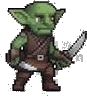
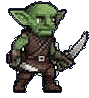
夥伴角色強化（8/12）：獸人；修圖工具保護淺灰色武器
- 修圖：獸人、哥布林、聖騎士的劍、斧、鎧甲是淺灰色 → 只剝 1 層灰邊、不挖灰色破洞，飄在旁邊的灰色方塊另外清
  （pixel_polish 新增 peel、blobs）
- 特效：戰意的橘紅光暈、環繞發光的符文石；披風擺動
- 專屬背景：黃昏的戰營，木樁圍牆、帳篷、戰旗飄動、營火冒煙
- 部位動作：頭、上半身；武器微微晃、點擊時揮下去；雙劍往外揮

Claude-Session: https://claude.ai/code/session_016wQJDqNmeMZi3CzSXZ7hYD

diff --git a/web/js/core.js b/web/js/core.js
@@ -183,6 +183,8 @@ const PET_FX = {
   golem: { from: 2, aura: "120,225,140", orb: "rock", colors: ["#2B2A26", "#7C7466", "#7FE0A0"], spark: "#A7F0B8" },
   // 惡魔：地獄火的光暈，環繞火焰
   demon: { from: 2, aura: "255,80,40", orb: "flame", colors: ["#5A0A08", "#FF5A1F", "#FFE07A"], spark: "#FF9A5A", sway: 1 },
+  // 獸人：戰意的橘紅光暈，環繞發光的符文石
+  orc: { from: 2, aura: "240,110,50", orb: "rune", colors: ["#2A1A10", "#6B4A2E", "#FF8A2A"], spark: "#FFB070", sway: 3 },
   beast_tamer: { from: 2, aura: "140,215,100", orb: "leaf", colors: ["#28501C", "#68AE36", "#D2F59A"], spark: "#CFF59A", sway: 2 },
 };
 const ORB_GRID = {
@@ -190,6 +192,7 @@ const ORB_GRID = {
   bat: ["1.......1", "11.....11", "111.1.111", "111222111", ".1232321.", "..12221..", "...1.1..."],
   skull: [".11111.", "1222221", "1322231", "1222221", ".12221.", ".12121.", "..111.."],
   rock: ["..111..", ".12221.", "1222231", "1223321", ".12221.", "..111.."],
+  rune: [".11111.", "1222221", "1232321", "1223221", "1232321", "1222221", ".11111."],
   wisp: ["..111..", ".12221.", "1233321", "1233321", ".12321.", "..121..", "...1..."],
   leaf: ["....111", "...1221", "..12321", ".123221", "1232211", "122211.", "1111...", "1......"],
 };
@@ -329,6 +332,27 @@ const PET_SCENE = {
     const embers = Array.from({ length: 8 }, (_, i) => `<i class="firefly ember" style="--i:${i}"></i>`).join("");
     return `<svg class="scene-art" viewBox="0 0 160 80" preserveAspectRatio="xMidYMax slice" shape-rendering="crispEdges">${s}</svg>${embers}`;
   },
+  // 獸人：黃昏的戰營，木樁圍牆、帳篷、戰旗、營火，煙往上飄、旗子飄動
+  orc: () => {
+    let s = bands(0, ["#3A2030", "#4E2530", "#652B2E", "#7C332B", "#933D27", "#A84A24", "#BA5A23", "#C86C26", "#D27E2C", "#D98F35"], 5);
+    s += pxCircle(40, 30, 9, "#F2B04A") + pxCircle(40, 30, 7, "#FFD27A");
+    // 遠山
+    for (let x = 0; x < 160; x += 2) { const h = 6 + Math.round(4 * Math.sin(x / 13 + 2) + 2 * Math.sin(x / 4.4)); s += PX(x, 46 - h, 2, h, "#5A2A24"); }
+    // 地面：泥土
+    s += PX(0, 46, 160, 34, "#6A4A30") + PX(0, 46, 160, 2, "#80603E") + PX(0, 62, 160, 18, "#583C26");
+    // 木樁圍牆
+    for (let x = 0; x < 160; x += 5) { const h = 12 + (x * 7) % 5; s += PX(x, 46 - h, 4, h, "#4A2E1C") + PX(x + 1, 46 - h, 1, h, "#6A4428") + PX(x + 1, 46 - h - 2, 2, 2, "#4A2E1C"); }
+    s += PX(0, 38, 160, 2, "#3A2416");
+    // 帳篷
+    const tent = (x, b, w, c, c2) => { let t = ""; for (let i = 0; i < w / 2; i++) t += PX(x + i, b - i, w - i * 2, 1, i % 3 ? c : c2); return t + PX(x + w / 2 - 2, b - 5, 4, 5, "#2A1A10"); };
+    s += tent(8, 58, 24, "#8A5A34", "#7A4C2A") + tent(118, 56, 30, "#7A3A2A", "#6A3022");
+    // 戰旗
+    s += PX(58, 22, 1, 30, "#2A1A10") + PX(100, 26, 1, 26, "#2A1A10");
+    // 營火
+    s += PX(76, 60, 10, 2, "#4A2E1C") + PX(78, 56, 6, 4, "#FF7A2A") + PX(79, 54, 4, 2, "#FFC25A") + PX(80, 52, 2, 2, "#FFE08A");
+    const smoke = Array.from({ length: 4 }, (_, i) => `<i class="smoke" style="--i:${i}"></i>`).join("");
+    return `<svg class="scene-art" viewBox="0 0 160 80" preserveAspectRatio="xMidYMax slice" shape-rendering="crispEdges">${s}</svg>${smoke}<i class="banner" style="left:36.9%;top:28%"></i><i class="banner b2" style="left:63.1%;top:33%"></i>`;
+  },
   // 精靈使：月夜的精靈泉，極光、古樹、發光的蘑菇，螢火慢慢往上飄
   spirit: () => {
     let s = bands(0, ["#0B1430", "#0E1B3B", "#112346", "#142C50", "#17365A", "#1A4062", "#1D4A69", "#20536E", "#235B72", "#266274"], 5);
@@ -408,6 +432,12 @@ const PET_FRONT = {
     for (let x = 0; x < 160; x += 4) { const h = 2 + ((x * 7) % 5); s += PX(x, 10 - h, 3, h, "#140706") + PX(x, 10 - h, 3, 1, "#FF6A1F"); }
     return `<svg class="front-art" viewBox="0 0 160 10" preserveAspectRatio="none" shape-rendering="crispEdges">${s}</svg><i class="firefly ember front" style="--i:2"></i>`;
   },
+  orc: () => {
+    let s = "";
+    for (let x = 0; x < 160; x += 3) { const h = 1 + ((x * 5) % 4); s += PX(x, 10 - h, 3, h, x % 2 ? "#4E3420" : "#5E4028"); }
+    s += PX(10, 3, 2, 7, "#3A2416") + PX(9, 2, 4, 1, "#3A2416") + PX(148, 4, 2, 6, "#3A2416") + PX(147, 3, 4, 1, "#3A2416");
+    return `<svg class="front-art" viewBox="0 0 160 10" preserveAspectRatio="none" shape-rendering="crispEdges">${s}</svg>`;
+  },
   necromancer: () => `<i class="mist green front"></i><i class="mist green front m2"></i>`,
   spirit: () => {
     let s = "";
@@ -432,7 +462,7 @@ const petFront = (id) => (PET_FRONT[id] ? `<span class="scene-front" aria-hidden
 
 // 夥伴圖：有拆部位的（rigs.json）用分層組回角色，點擊時頭、翅膀、尾巴、下襬各自動；沒有的用整張圖
 // 圖層順序：翅膀、尾巴、魔力圈在身體後面；上半身、頭在前面。腳留在身體層，不另外動
-const RIG_Z = { wingL: 0, wingR: 0, tail: 0, tailL: 0, tailR: 0, ringL: 0, ringR: 0, torso: 2, head: 3, beast: 2, mane: 2, crystal: 3, wisp: 3, fairy: 3, ghost: 3, flame: 3, minion: 2, armL: 2, armR: 2, cape: 0 };
+const RIG_Z = { wingL: 0, wingR: 0, tail: 0, tailL: 0, tailR: 0, ringL: 0, ringR: 0, torso: 2, head: 3, beast: 2, mane: 2, crystal: 3, wisp: 3, fairy: 3, ghost: 3, flame: 3, minion: 2, armL: 2, armR: 2, cape: 0, weapon: 3 };
 function petSprite(id, stage, boxH) {
   const rig = S.rigs?.[id]?.[stage + 1], sp = species(id);
   if (!rig || !sp) return charImg(id, stage, boxH);

diff --git a/web/style.css b/web/style.css
@@ -867,6 +867,10 @@ ol.steps { margin: 0; padding-left: 1.4em; font-size: .9375rem; line-height: 1.7
   background: repeating-linear-gradient(90deg, rgba(120, 230, 160, 0) 0 18px, rgba(120, 230, 160, .3) 18px 60px, rgba(120, 230, 160, 0) 60px 90px); }
 .scene .firefly.spore { width: 2px; height: 2px; background: #EAF7C8; box-shadow: 0 0 3px rgba(220, 255, 190, .8); }
 .scene .firefly.ember, .scene-front .firefly.ember { width: 3px; height: 3px; background: #FFB04A; box-shadow: 0 0 5px 1px rgba(255, 110, 40, .9); }
+.scene .smoke { position: absolute; left: calc(52% + var(--i) * 1%); bottom: 26%; width: 6px; height: 6px; background: rgba(90, 70, 60, .55); opacity: 0; }
+.scene .banner { position: absolute; width: 14px; height: 9px; background: #8E1E1A; box-shadow: inset 0 -2px 0 #5E1210, inset 3px 0 0 #2A1A10;
+  clip-path: polygon(0 0, 100% 0, 80% 50%, 100% 100%, 0 100%); transform-origin: left center; }
+.scene .banner.b2 { background: #2A1A10; box-shadow: inset 0 -2px 0 #8E1E1A; }
 .scene .star { position: absolute; width: 3px; height: 3px; background: #FFF4D6; box-shadow: 0 0 4px #FFF4D6; }
 .scene .mist { position: absolute; left: -40%; bottom: 14%; width: 180%; height: 22px; opacity: .55;
   background: repeating-linear-gradient(90deg, rgba(190, 130, 230, .0) 0 18px, rgba(190, 130, 230, .35) 18px 60px, rgba(190, 130, 230, 0) 60px 90px); }
@@ -883,6 +887,10 @@ ol.steps { margin: 0; padding-left: 1.4em; font-size: .9375rem; line-height: 1.7
   .scene .firefly, .scene-front .firefly { animation: firefly-rise calc(5s + var(--i) * .8s) linear calc(var(--i) * -1.1s) infinite; }
   @keyframes firefly-rise { 0% { opacity: 0; transform: translate(0, 0); } 15% { opacity: 1; } 50% { transform: translate(8px, -60px); }
     85% { opacity: .9; } 100% { opacity: 0; transform: translate(-6px, -130px); } }
+  .scene .smoke { animation: smoke-rise calc(4s + var(--i) * .7s) steps(10) calc(var(--i) * -1.2s) infinite; }
+  @keyframes smoke-rise { 0% { opacity: 0; transform: translate(0, 0) scale(.6); } 15% { opacity: 1; } 100% { opacity: 0; transform: translate(-14px, -90px) scale(2.2); } }
+  .scene .banner { animation: banner-wave 1.6s steps(4) infinite; }
+  @keyframes banner-wave { 50% { transform: scaleX(.85) skewY(6deg); } }
   .scene .bird { animation: bird-fly calc(11s + var(--i) * 4s) linear calc(var(--i) * -6s) infinite, bird-flap .5s steps(2) infinite; }
   @keyframes bird-fly { 0% { left: -10%; } 100% { left: 110%; transform: translateY(-14px); } }
   @keyframes bird-flap { 50% { background-position: 0 1px, 4px 1px, 2px 0; } }
@@ -910,6 +918,9 @@ ol.steps { margin: 0; padding-left: 1.4em; font-size: .9375rem; line-height: 1.7
 .stage[data-scene="demon"] .pet img, .stage[data-scene="demon"] .pet .wavy {
   filter: drop-shadow(2px 0 0 rgba(255, 120, 50, .6)) drop-shadow(0 2px 0 rgba(255, 90, 30, .5)) drop-shadow(0 0 10px rgba(255, 80, 30, .35)); }
 .stage[data-scene="demon"] .pet-shadow { background: rgba(10, 0, 0, .6); box-shadow: 0 0 14px 4px rgba(255, 90, 30, .2); }
+.stage[data-scene="orc"] .pet img, .stage[data-scene="orc"] .pet .wavy {
+  filter: drop-shadow(-2px 0 0 rgba(255, 200, 120, .55)) drop-shadow(0 0 9px rgba(255, 130, 50, .3)); }
+.stage[data-scene="orc"] .pet-shadow { background: rgba(40, 20, 8, .6); }
 .stage[data-scene="spirit"] .pet img, .stage[data-scene="spirit"] .pet .wavy {
   filter: brightness(.95) drop-shadow(-2px 0 0 rgba(220, 255, 245, .55)) drop-shadow(0 0 10px rgba(110, 230, 205, .35)); }
 .stage[data-scene="spirit"] .pet-shadow { background: rgba(5, 20, 25, .55); box-shadow: 0 0 14px 4px rgba(110, 230, 205, .2); }
@@ -943,6 +954,10 @@ ol.steps { margin: 0; padding-left: 1.4em; font-size: .9375rem; line-height: 1.7
   @keyframes idle-swayR { 50% { rotate: -3deg; } }
   @keyframes punchL { 30% { rotate: 14deg; } 100% { rotate: 0deg; } }
   @keyframes punchR { 30% { rotate: -14deg; } 100% { rotate: 0deg; } }
+  .rig .rp-swing { animation: idle-swing 4s ease-in-out infinite; }
+  .pet.react .rig .rp-swing { animation: smash .9s cubic-bezier(.3, 1.4, .5, 1) 1; }
+  @keyframes idle-swing { 50% { rotate: -3deg; } }
+  @keyframes smash { 0% { rotate: 0deg; } 30% { rotate: -28deg; } 55% { rotate: 8deg; } 100% { rotate: 0deg; } }
   .rig .rp-nod { animation: idle-nod 4s ease-in-out infinite; }
   .rig .rp-bob { animation: idle-bob 3s steps(6, jump-none) infinite alternate; }
   .rig .rp-flicker { animation: idle-flicker .9s steps(2) infinite; }

diff --git a/tools/pixel_polish.py b/tools/pixel_polish.py
@@ -142,6 +142,27 @@ def colorize(img, hue, sat=90, max_sat=70, darken=1.0):
     return Image.fromarray(hsv.astype(np.uint8), "HSV").convert("RGB")
 
 
+def drop_grey_blobs(a, mask, grey_ratio=0.7, fill=0.6):
+    """飄在角色旁邊的灰色方塊（棋盤格碎片）：不是最大塊、幾乎都是灰色、形狀方方正正的，就挖掉。"""
+    rgb = a[..., :3].astype(int)
+    grey = (rgb.max(-1) - rgb.min(-1)) < 24
+    lab, n = ndimage.label(mask, structure=np.ones((3, 3)))
+    if n < 2:
+        return mask
+    sizes = ndimage.sum(mask, lab, range(1, n + 1))
+    big = int(np.argmax(sizes)) + 1
+    for i, box in enumerate(ndimage.find_objects(lab), 1):
+        if i == big or box is None:
+            continue
+        comp = lab[box] == i
+        area = comp.sum()
+        if area > sizes[big - 1] * 0.12:
+            continue
+        if grey[box][comp].mean() >= grey_ratio and area / comp.size >= fill:
+            mask[box] &= ~comp
+    return mask
+
+
 def shift_hue(img, lo, hi, by, darken=1.0, min_sat=40):
     """把某段色相（0–360 度）整段轉到別的顏色，例如粉紅轉成紫紅；金髮、膚色不在範圍內就不動。"""
     hsv = np.array(img.convert("HSV")).astype(int)
@@ -153,7 +174,7 @@ def shift_hue(img, lo, hi, by, darken=1.0, min_sat=40):
     return Image.fromarray(hsv.astype(np.uint8), "HSV").convert("RGB")
 
 
-def polish(path, colors=96, sat=1.12, contrast=1.06, holes=False, hue=None, debris=False, aura=None, min_bit=8, tint=None, smooth=None, outside=None, recolor=None):
+def polish(path, colors=96, sat=1.12, contrast=1.06, holes=False, hue=None, debris=False, aura=None, min_bit=8, tint=None, smooth=None, outside=None, recolor=None, peel=8, blobs=False):
     im = Image.open(path).convert("RGBA")
     a = np.array(im)
     mask = a[..., 3] > 0
@@ -169,11 +190,14 @@ def polish(path, colors=96, sat=1.12, contrast=1.06, holes=False, hue=None, debr
         mask = drop_tint(a, mask, **tint)
     if outside:
         mask = drop_outside(a, mask, **outside)
-    mask = peel_grey(a, mask)
+    if peel:                                       # 劍刃、鎧甲是淺灰色的角色要少剝或不剝
+        mask = peel_grey(a, mask, passes=peel)
     if holes:
         mask = drop_grey_holes(a, mask)
     if debris:
         mask = drop_debris(a, mask)
+    if blobs:
+        mask = drop_grey_blobs(a, mask)
     lab, n = ndimage.label(mask)
     if n:
         sizes = ndimage.sum(mask, lab, range(1, n + 1))
@@ -237,6 +261,10 @@ TUNE = {
     # 惡魔：第 3 階段整片紅色棋盤格蓋在身上、修不回來 → 換新外觀：用第 4 階段的騎士，黑甲染成暗紅甲（地獄領主）
     "demon": {"sat": 1.12, "contrast": 1.1, "debris": True, "min_bit": 24, "holes": True, "stages": {
         3: {"source": 4, "contrast": 1.12, "recolor": {"hue": 354, "sat": 165, "max_sat": 70, "darken": 0.82}}}},
+    # 獸人、哥布林、聖騎士：劍、斧、鎧甲是淺灰色，不能挖灰色破洞也不能多剝 → 只剝 1 層，飄在旁邊的灰色方塊另外清
+    "orc": {"sat": 1.12, "contrast": 1.08, "min_bit": 30, "peel": 1, "blobs": True},
+    "goblin": {"sat": 1.12, "contrast": 1.08, "min_bit": 30, "peel": 1, "blobs": True},
+    "paladin": {"sat": 1.12, "contrast": 1.08, "min_bit": 30, "peel": 1, "blobs": True},
     "fox_spirit": {"sat": 1.25, "contrast": 1.08},   # 和服的紅、紫、金更華麗
     # 魅魔：跟九尾狐的粉紅分開 → 粉紅轉成深紫紅、整體暗一點；翅膀和魔力圈裡夾著背景棋盤格
     "succubus": {"sat": 1.2, "contrast": 1.12, "holes": True, "hue": [(296, 8, -30, 0.84)]},

diff --git a/tools/rig_split.py b/tools/rig_split.py
@@ -83,6 +83,14 @@ RIGS: dict[str, dict[int, list]] = {
         4: [("head", [40, 6, 100, 48], [70, 48], "tilt"), ("torso", [28, 48, 110, 90], [70, 90], "breath")],
         5: [("head", [50, 8, 100, 45], [75, 45], "tilt"), ("cape", [108, 60, 154, 154], [110, 62], "swayR"),
             ("torso", [44, 45, 108, 88], [76, 88], "breath")]},
+    # 獸人：頭、上半身；手上的武器微微晃，點一下揮下去（雙劍往外揮）
+    "orc": {
+        1: [("head", [10, 4, 46, 38], [28, 38], "tilt"), ("weapon", [46, 18, 72, 52], [47, 50], "swing"), ("torso", [8, 38, 50, 62], [28, 62], "breath")],
+        2: [("head", [22, 8, 62, 42], [42, 42], "tilt"), ("weapon", [72, 32, 114, 72], [73, 62], "swing"), ("torso", [12, 42, 72, 80], [40, 80], "breath")],
+        3: [("head", [48, 4, 88, 42], [68, 42], "tilt"), ("weapon", [100, 40, 150, 92], [100, 72], "swing"), ("torso", [14, 42, 100, 90], [60, 90], "breath")],
+        4: [("head", [58, 2, 118, 52], [86, 52], "tilt"), ("armL", [2, 24, 40, 98], [36, 86], "swayL"), ("armR", [124, 24, 166, 98], [128, 86], "swayR"),
+            ("torso", [40, 52, 124, 100], [86, 100], "breath")],
+        5: [("head", [60, 14, 108, 58], [84, 58], "tilt"), ("weapon", [118, 0, 178, 92], [124, 90], "swing"), ("torso", [20, 58, 118, 110], [80, 110], "breath")]},
     "fox_spirit": {
         1: [("head", [36, 0, 77, 42], [52, 40], "tilt"), ("tail", [4, 18, 36, 66], [36, 52], "wag")],
         2: [("head", [48, 8, 82, 46], [64, 46], "tilt"), ("tailL", [6, 38, 50, 112], [50, 70], "fanL"), ("torso", [46, 46, 85, 95], [64, 95], "breath")],
